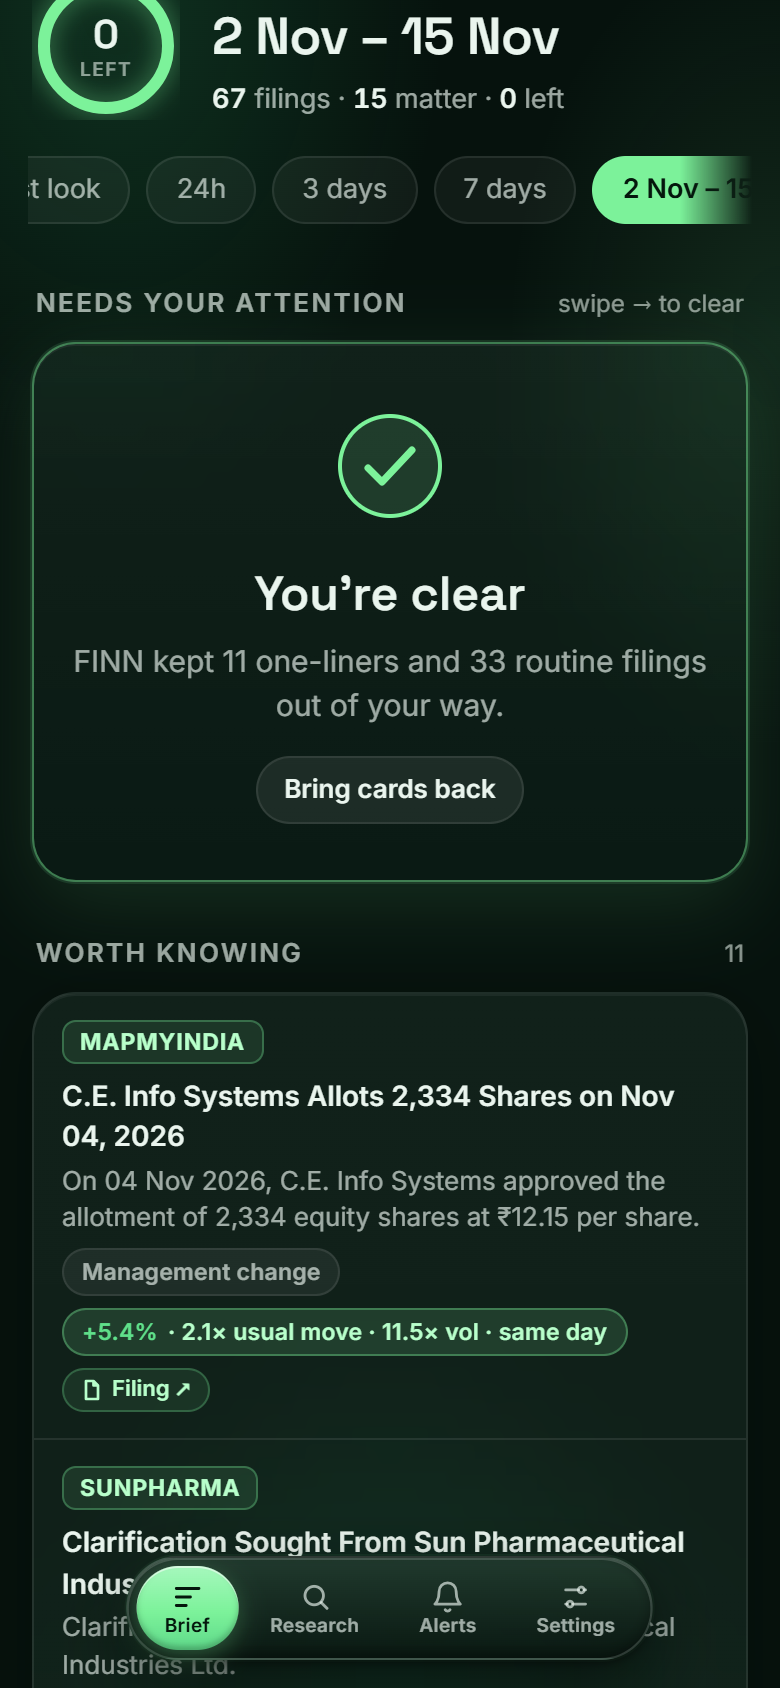
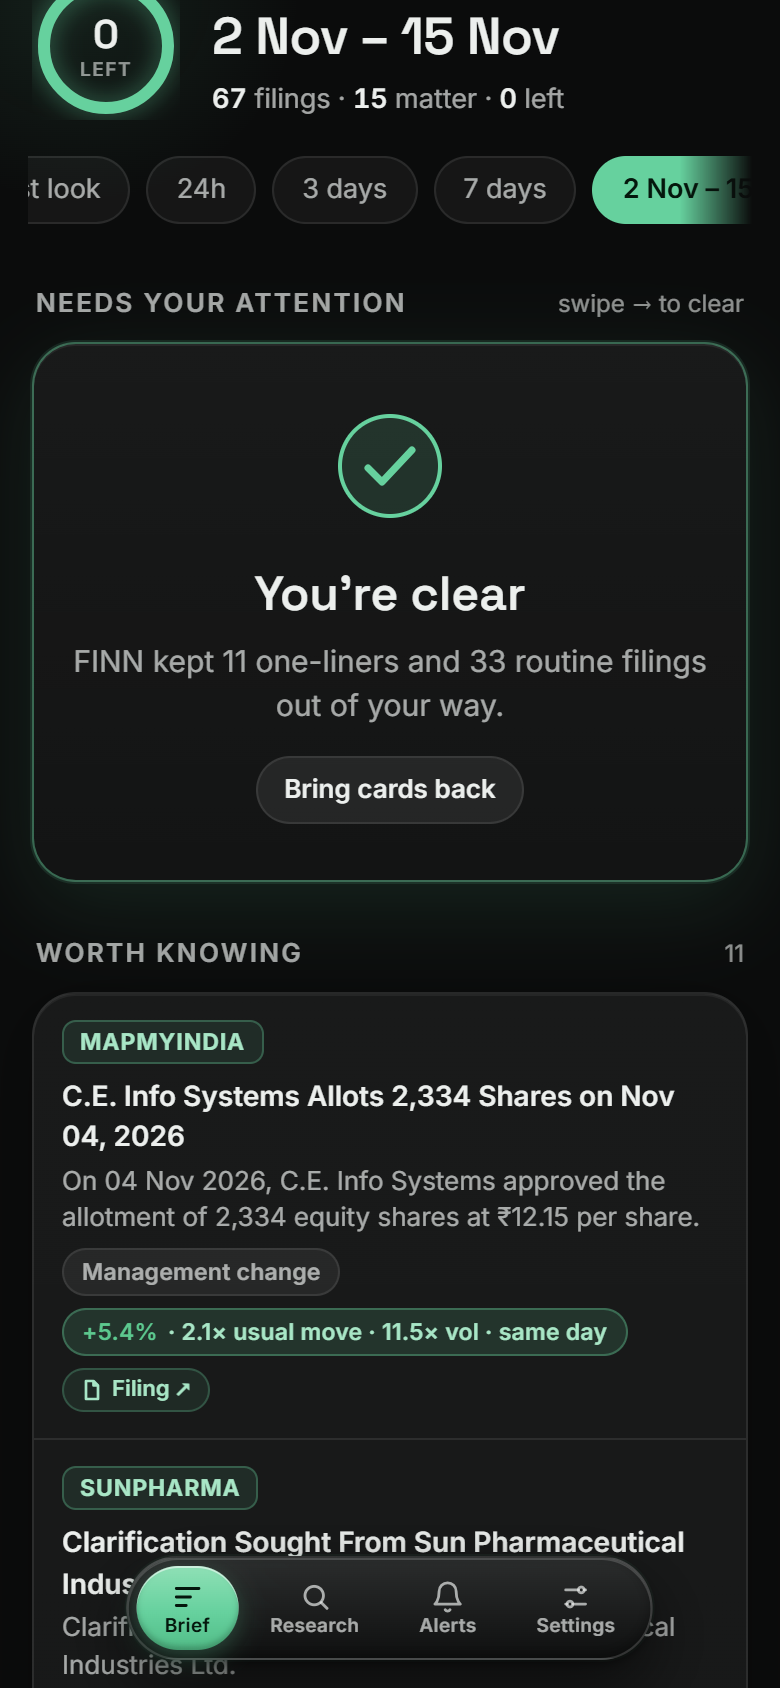
Softer accent and a plain background
Neon mint (#7CF29A) becomes a calmer sage-mint (#66D19E) everywhere, glows
are lighter, red is softer, and the green-tinted background is now plain
near-black with one faint tint behind the logo.

diff --git a/frontend/src/styles.css b/frontend/src/styles.css
@@ -1,19 +1,19 @@
 :root {
-  --bg: #06120d;
-  --bg-2: #0a1a13;
+  --bg: #0b0c0c;
+  --bg-2: #131515;
   --glass: rgba(255, 255, 255, 0.045);
   --glass-strong: rgba(255, 255, 255, 0.075);
   --line: rgba(255, 255, 255, 0.085);
   --line-strong: rgba(255, 255, 255, 0.16);
-  --text: #eaf5ee;
-  --text-2: rgba(234, 245, 238, 0.66);
-  --text-3: rgba(234, 245, 238, 0.58);
-  --mint: #7cf29a;
-  --mint-2: #b8ffcb;
+  --text: #ecefed;
+  --text-2: rgba(236, 239, 237, 0.68);
+  --text-3: rgba(236, 239, 237, 0.58);
+  --mint: #66d19e;
+  --mint-2: #a8e6c6;
   --mint-ink: #04170c;
-  --mint-glow: rgba(124, 242, 154, 0.35);
-  --up: #5fe08a;
-  --down: #ff6b6b;
+  --mint-glow: rgba(102, 209, 158, 0.22);
+  --up: #5cc98f;
+  --down: #ef7b7b;
   --amber: #f5c86b;
   --radius: 22px;
   --radius-sm: 14px;
@@ -44,11 +44,8 @@ a { color: inherit; }
 /* ---------- background glows ---------- */
 .bg-glow {
   position: fixed; inset: 0; z-index: 0; pointer-events: none;
-  background:
-    radial-gradient(60% 40% at 15% 0%, rgba(46, 160, 98, 0.22), transparent 70%),
-    radial-gradient(50% 35% at 100% 20%, rgba(124, 242, 154, 0.10), transparent 70%),
-    radial-gradient(70% 45% at 50% 110%, rgba(30, 110, 72, 0.25), transparent 70%),
-    var(--bg);
+  /* plain background; one faint tint behind the logo only */
+  background: radial-gradient(38% 16% at 10% 0%, rgba(102, 209, 158, 0.10), transparent 75%), var(--bg);
 }
 
 /* ---------- shell ---------- */
@@ -64,7 +61,7 @@ a { color: inherit; }
 
 .topbar { display: flex; align-items: center; justify-content: space-between; gap: 12px; margin-bottom: 14px; }
 .brand { display: flex; align-items: center; gap: 10px; font-family: var(--font); font-weight: 500; letter-spacing: 0.22em; font-size: 15.5px; }
-.brand img { width: 30px; height: 30px; border-radius: 9px; box-shadow: 0 0 18px rgba(124, 242, 154, 0.18); }
+.brand img { width: 30px; height: 30px; border-radius: 9px; box-shadow: 0 0 18px rgba(102, 209, 158, 0.18); }
 .asof { font-size: 11.5px; color: var(--text-3); text-align: right; line-height: 1.3; }
 
 h1, h2, h3 { margin: 0; font-weight: 600; }
@@ -91,7 +88,7 @@ h1, h2, h3 { margin: 0; font-weight: 600; }
 }
 .card { padding: 16px 16px 14px; }
 .card + .card { margin-top: 12px; }
-.hero-glow { border-color: rgba(124, 242, 154, 0.45); box-shadow: 0 0 0 1px rgba(124,242,154,0.12), 0 12px 40px rgba(124, 242, 154, 0.12), inset 0 1px 0 rgba(255,255,255,0.06); }
+.hero-glow { border-color: rgba(102, 209, 158, 0.45); box-shadow: 0 0 0 1px rgba(102, 209, 158,0.12), 0 12px 40px rgba(102, 209, 158, 0.12), inset 0 1px 0 rgba(255,255,255,0.06); }
 
 /* ---------- chips & pills ---------- */
 .chips { display: flex; gap: 8px; overflow-x: auto; scrollbar-width: none; padding: 2px 2px 4px; margin: 0 -2px;
@@ -111,7 +108,7 @@ h1, h2, h3 { margin: 0; font-weight: 600; }
   background: rgba(255,255,255,0.06); border: 1px solid var(--line); color: var(--text-2); white-space: nowrap;
   max-width: 100%; overflow: hidden; text-overflow: ellipsis;
 }
-.tag.mint { background: rgba(124,242,154,0.14); border-color: rgba(124,242,154,0.35); color: var(--mint-2); }
+.tag.mint { background: rgba(102, 209, 158,0.14); border-color: rgba(102, 209, 158,0.35); color: var(--mint-2); }
 .tag.red { background: rgba(255,107,107,0.12); border-color: rgba(255,107,107,0.35); color: #ff9c9c; }
 .tag.amber { background: rgba(245,200,107,0.12); border-color: rgba(245,200,107,0.35); color: #f8d892; }
 .tag.ghost { background: transparent; }
@@ -125,8 +122,8 @@ h1, h2, h3 { margin: 0; font-weight: 600; }
 .linkish { color: var(--mint-2); text-decoration: none; font-weight: 500; }
 .cite {
   display: inline-flex; align-items: center; gap: 4px; height: 22px; padding: 0 8px; border-radius: var(--pill);
-  font-size: 11px; font-weight: 600; color: var(--mint-2); background: rgba(124,242,154,0.09);
-  border: 1px solid rgba(124,242,154,0.25); text-decoration: none; white-space: nowrap;
+  font-size: 11px; font-weight: 600; color: var(--mint-2); background: rgba(102, 209, 158,0.09);
+  border: 1px solid rgba(102, 209, 158,0.25); text-decoration: none; white-space: nowrap;
   max-width: 100%; overflow: hidden; text-overflow: ellipsis; vertical-align: middle;
 }
 .cite svg { flex: none; }
@@ -137,7 +134,7 @@ h1, h2, h3 { margin: 0; font-weight: 600; }
   bottom: calc(var(--safe-bottom) + 14px);
   display: flex; gap: 2px; padding: 4px;
   border-radius: var(--pill);
-  background: linear-gradient(180deg, rgba(34, 58, 46, 0.92), rgba(9, 22, 16, 0.94));
+  background: linear-gradient(180deg, rgba(44, 46, 46, 0.92), rgba(14, 15, 15, 0.94));
   border: 1px solid rgba(255, 255, 255, 0.14);
   backdrop-filter: blur(24px) saturate(150%); -webkit-backdrop-filter: blur(24px) saturate(150%);
   box-shadow:
@@ -145,7 +142,7 @@ h1, h2, h3 { margin: 0; font-weight: 600; }
     inset 0 -2px 6px rgba(0, 0, 0, 0.35),         /* shaded underside */
     0 2px 4px rgba(0, 0, 0, 0.35),                /* contact shadow */
     0 14px 34px rgba(0, 0, 0, 0.55),              /* lift */
-    0 0 0 1px rgba(124, 242, 154, 0.06);
+    0 0 0 1px rgba(102, 209, 158, 0.06);
 }
 .nav button {
   position: relative; display: flex; align-items: center; gap: 7px;
@@ -153,8 +150,8 @@ h1, h2, h3 { margin: 0; font-weight: 600; }
 }
 .nav button[aria-current="page"] { color: var(--mint-ink); }
 .nav .pill-bg { position: absolute; inset: 0; border-radius: var(--pill); z-index: -1;
-  background: linear-gradient(180deg, #a6f8bd 0%, var(--mint) 55%, #5fd98a 100%);
-  box-shadow: inset 0 1px 0 rgba(255, 255, 255, 0.55), inset 0 -2px 3px rgba(4, 23, 12, 0.25), 0 4px 12px rgba(124, 242, 154, 0.28); }
+  background: linear-gradient(180deg, #8fe0b6 0%, var(--mint) 55%, #52bd88 100%);
+  box-shadow: inset 0 1px 0 rgba(255, 255, 255, 0.55), inset 0 -2px 3px rgba(4, 23, 12, 0.25), 0 4px 12px rgba(102, 209, 158, 0.28); }
 .nav svg { width: 17px; height: 17px; }
 .nav button { flex-direction: column; justify-content: center; gap: 1px; height: 42px; padding: 0 14px; font-size: 9.5px; }
 .nav .label { display: block; font-weight: 600; letter-spacing: .02em; line-height: 1.1; }
@@ -170,7 +167,7 @@ h1, h2, h3 { margin: 0; font-weight: 600; }
 
 .swipe-wrap { position: relative; touch-action: pan-y; }
 .swipe-hint { position: absolute; inset: 0; border-radius: var(--radius); display: flex; align-items: center; padding: 0 22px; font-weight: 700; font-size: 13px; letter-spacing: .04em; }
-.swipe-hint.right { justify-content: flex-start; color: var(--mint); background: rgba(124,242,154,0.08); }
+.swipe-hint.right { justify-content: flex-start; color: var(--mint); background: rgba(102, 209, 158,0.08); }
 .swipe-hint.left { justify-content: flex-end; color: var(--amber); background: rgba(245,200,107,0.07); }
 .flip-scene { perspective: 1400px; }
 .flip-inner { position: relative; transform-style: preserve-3d; }
@@ -182,7 +179,7 @@ h1, h2, h3 { margin: 0; font-weight: 600; }
 .ticker-badge {
   flex: none; width: 38px; height: 38px; border-radius: 12px; display: grid; place-items: center;
   font-family: var(--display); font-weight: 700; font-size: 12.5px; letter-spacing: .02em;
-  background: rgba(124,242,154,0.1); border: 1px solid rgba(124,242,154,0.22); color: var(--mint-2);
+  background: rgba(102, 209, 158,0.1); border: 1px solid rgba(102, 209, 158,0.22); color: var(--mint-2);
 }
 .who .name { font-weight: 600; font-size: 15px; white-space: nowrap; overflow: hidden; text-overflow: ellipsis; }
 .who .sub { font-size: 12px; color: var(--text-3); }
@@ -216,7 +213,7 @@ h1, h2, h3 { margin: 0; font-weight: 600; }
 .why-list li:first-child { border-top: 0; }
 .why-list .v { font-variant-numeric: tabular-nums; font-weight: 600; color: var(--text); }
 .score-bar { height: 8px; border-radius: 8px; background: rgba(255,255,255,0.07); overflow: hidden; margin: 10px 0 4px; }
-.score-bar > div { height: 100%; border-radius: 8px; background: linear-gradient(90deg, #2fae67, var(--mint)); }
+.score-bar > div { height: 100%; border-radius: 8px; background: linear-gradient(90deg, #3f9d74, var(--mint)); }
 
 .row-list .row { display: flex; align-items: flex-start; gap: 12px; padding: 13px 14px; }
 .row-list .row + .row { border-top: 1px solid var(--line); }
@@ -237,7 +234,7 @@ h1, h2, h3 { margin: 0; font-weight: 600; }
   width: 100%; height: 50px; border-radius: var(--pill); padding: 0 18px 0 46px;
   background: var(--glass-strong); border: 1px solid var(--line-strong); outline: none; font-size: 15.5px;
 }
-.search input:focus { border-color: rgba(124,242,154,0.55); box-shadow: 0 0 0 4px rgba(124,242,154,0.12); }
+.search input:focus { border-color: rgba(102, 209, 158,0.55); box-shadow: 0 0 0 4px rgba(102, 209, 158,0.12); }
 .search svg { position: absolute; left: 16px; top: 15px; width: 20px; height: 20px; color: var(--text-3); }
 .suggest { margin-top: 8px; overflow: hidden; }
 .suggest button { width: 100%; display: flex; justify-content: space-between; gap: 12px; padding: 12px 16px; text-align: left; font-size: 14px; }
@@ -249,7 +246,7 @@ h1, h2, h3 { margin: 0; font-weight: 600; }
 .stat { padding: 12px 10px; border-radius: 16px; background: rgba(255,255,255,0.04); border: 1px solid var(--line); }
 .stat .n { font-family: var(--display); font-size: 24px; font-weight: 600; line-height: 1.1; font-variant-numeric: tabular-nums; }
 .stat .l { font-size: 11.5px; color: var(--text-3); margin-top: 4px; line-height: 1.25; }
-.stat.key { border-color: rgba(124,242,154,0.45); background: rgba(124,242,154,0.08); }
+.stat.key { border-color: rgba(102, 209, 158,0.45); background: rgba(102, 209, 158,0.08); }
 .stat.key .n { color: var(--mint-2); }
 
 .ledger-row { width: 100%; text-align: left; padding: 13px 14px; display: block; }
@@ -258,26 +255,26 @@ h1, h2, h3 { margin: 0; font-weight: 600; }
 .ledger-row .what { font-weight: 600; font-size: 14px; flex: 1; min-width: 0; white-space: nowrap; overflow: hidden; text-overflow: ellipsis; }
 .ledger-row .line2 { font-size: 12.5px; color: var(--text-2); margin-top: 3px; }
 .verdict { height: 24px; padding: 0 10px; border-radius: var(--pill); font-size: 11.5px; font-weight: 700; display: inline-flex; align-items: center; white-space: nowrap; }
-.v-kept { background: rgba(124,242,154,0.16); color: var(--mint-2); border: 1px solid rgba(124,242,154,0.4); }
+.v-kept { background: rgba(102, 209, 158,0.16); color: var(--mint-2); border: 1px solid rgba(102, 209, 158,0.4); }
 .v-partly { background: rgba(245,200,107,0.13); color: #f8d892; border: 1px solid rgba(245,200,107,0.35); }
 .v-missed { background: rgba(255,107,107,0.13); color: #ff9c9c; border: 1px solid rgba(255,107,107,0.35); }
 .v-dropped { background: rgba(255,107,107,0.08); color: #ffb3b3; border: 1px dashed rgba(255,107,107,0.45); }
 .v-early, .v-nm { background: rgba(255,255,255,0.06); color: var(--text-2); border: 1px solid var(--line); }
-.quote { margin: 10px 0 0; padding: 10px 12px; border-left: 2px solid var(--mint); background: rgba(124,242,154,0.05); border-radius: 0 12px 12px 0; font-size: 13.5px; color: var(--text); }
+.quote { margin: 10px 0 0; padding: 10px 12px; border-left: 2px solid var(--mint); background: rgba(102, 209, 158,0.05); border-radius: 0 12px 12px 0; font-size: 13.5px; color: var(--text); }
 .quote .by { display: flex; gap: 8px; align-items: center; flex-wrap: wrap; font-size: 11.5px; color: var(--text-3); margin-top: 6px; }
 .trail { margin: 10px 0 0; padding: 0; list-style: none; font-size: 12.5px; }
 .trail li { display: flex; gap: 10px; padding: 4px 0; color: var(--text-2); }
 .trail .ev { min-width: 104px; color: var(--text); font-weight: 600; }
 
 .progress { height: 6px; border-radius: 6px; background: rgba(255,255,255,0.07); overflow: hidden; }
-.progress > div { height: 100%; background: linear-gradient(90deg, #2fae67, var(--mint)); border-radius: 6px; }
+.progress > div { height: 100%; background: linear-gradient(90deg, #3f9d74, var(--mint)); border-radius: 6px; }
 .stages { margin: 12px 0 0; padding: 0; list-style: none; font-size: 13px; }
 .stages li { display: flex; align-items: center; gap: 10px; padding: 5px 0; color: var(--text-3); }
 .stages li.done { color: var(--text-2); }
 .stages li.now { color: var(--text); font-weight: 600; }
 .stages .dot { width: 8px; height: 8px; border-radius: 50%; background: rgba(255,255,255,0.15); flex: none; }
 .stages li.done .dot { background: var(--mint); }
-.stages li.now .dot { background: var(--mint); box-shadow: 0 0 0 4px rgba(124,242,154,0.18); }
+.stages li.now .dot { background: var(--mint); box-shadow: 0 0 0 4px rgba(102, 209, 158,0.18); }
 
 .kv { display: grid; grid-template-columns: 1fr auto; gap: 8px 12px; font-size: 13.5px; }
 .kv .k { color: var(--text-2); }
@@ -291,7 +288,7 @@ h1, h2, h3 { margin: 0; font-weight: 600; }
 .sentence { font-family: var(--display); font-size: 17px; line-height: 2.05; font-weight: 500; }
 .sentence .val {
   display: inline-flex; align-items: center; height: 28px; padding: 0 10px; margin: 0 2px;
-  border-radius: var(--pill); background: rgba(124,242,154,0.12); border: 1px solid rgba(124,242,154,0.4);
+  border-radius: var(--pill); background: rgba(102, 209, 158,0.12); border: 1px solid rgba(102, 209, 158,0.4);
   color: var(--mint-2); font-weight: 600; font-size: 14.5px; vertical-align: baseline; font-variant-numeric: tabular-nums;
 }
 .slider { width: 100%; accent-color: var(--mint); height: 28px; }
@@ -304,9 +301,9 @@ h1, h2, h3 { margin: 0; font-weight: 600; }
 /* ---------- settings ---------- */
 .weights .w-row { display: grid; grid-template-columns: 96px 1fr 44px; gap: 10px; align-items: center; padding: 7px 0; font-size: 13.5px; }
 .weights .bar { height: 6px; border-radius: 6px; background: rgba(255,255,255,0.07); overflow: hidden; }
-.weights .bar > div { height: 100%; border-radius: 6px; background: rgba(124,242,154,0.6); }
+.weights .bar > div { height: 100%; border-radius: 6px; background: rgba(102, 209, 158,0.6); }
 .field { width: 100%; height: 44px; border-radius: 12px; border: 1px solid var(--line-strong); background: rgba(255,255,255,0.04); padding: 0 12px; outline: none; }
-.field:focus { border-color: rgba(124,242,154,0.55); }
+.field:focus { border-color: rgba(102, 209, 158,0.55); }
 .steps { counter-reset: s; margin: 0; padding: 0; list-style: none; }
 .steps li { counter-increment: s; position: relative; padding: 10px 0 10px 40px; border-top: 1px solid var(--line); font-size: 13.5px; color: var(--text-2); }
 .steps li:first-child { border-top: 0; }
@@ -330,7 +327,7 @@ html { scroll-behavior: smooth; }
 section, .section-title { scroll-margin-top: 64px; }
 .back-link { font-size: 13px; font-weight: 600; color: var(--mint-2); padding: 6px 0; margin-bottom: 4px; }
 .jumpbar { position: sticky; top: 0; z-index: 15; display: flex; gap: 6px; overflow-x: auto; scrollbar-width: none;
-  margin: 14px -16px 0; padding: 10px 16px; background: rgba(6, 18, 13, 0.86);
+  margin: 14px -16px 0; padding: 10px 16px; background: rgba(11, 12, 12, 0.86);
   backdrop-filter: blur(16px); -webkit-backdrop-filter: blur(16px); border-bottom: 1px solid var(--line); }
 .jumpbar::-webkit-scrollbar { display: none; }
 .jumpbar .chip { height: 30px; font-size: 12.5px; }
@@ -352,7 +349,7 @@ button:active, .chip:active, .why-btn:active, .btn:active { transform: scale(0.9
 .score-pills { flex: none; display: flex; flex-direction: column; align-items: flex-end; gap: 5px; }
 
 .splash { position: fixed; inset: 0; z-index: 100; display: flex; flex-direction: column; align-items: center; justify-content: center; gap: 6px;
-  background: radial-gradient(60% 40% at 50% 40%, rgba(46, 160, 98, 0.16), transparent 70%), #06120D; cursor: pointer; }
+  background: radial-gradient(50% 30% at 50% 42%, rgba(102, 209, 158, 0.08), transparent 70%), #0b0c0c; cursor: pointer; }
 .splash-word { font-family: var(--font); font-weight: 500; font-size: 22px; color: var(--text); margin-top: 4px; padding-left: 0.32em; }
 .splash-line { font-size: 12.5px; color: var(--text-3); letter-spacing: .04em; }
 
@@ -364,7 +361,7 @@ button:active, .chip:active, .why-btn:active, .btn:active { transform: scale(0.9
 
 /* company name as a small highlighted chip */
 .ticker-chip { display: inline-flex; align-items: center; height: 26px; padding: 0 10px; border-radius: 8px;
-  background: rgba(124, 242, 154, 0.10); border: 1px solid rgba(124, 242, 154, 0.30); color: var(--mint-2);
+  background: rgba(102, 209, 158, 0.10); border: 1px solid rgba(102, 209, 158, 0.30); color: var(--mint-2);
   font-weight: 700; font-size: 13px; letter-spacing: .04em; vertical-align: middle; }
 .ticker-chip.sm { height: 22px; padding: 0 8px; font-size: 11.5px; border-radius: 7px; }
 .who .name { overflow: visible; margin-bottom: 5px; }

diff --git a/frontend/src/components/ui.tsx b/frontend/src/components/ui.tsx
@@ -71,7 +71,7 @@ export function Ring({ done, total }: { done: number; total: number }) {
           strokeDasharray={c} transform="rotate(-90 37 37)"
           initial={false} animate={{ strokeDashoffset: c * (1 - frac) }}
           transition={{ type: "spring", stiffness: 120, damping: 20 }}
-          style={{ filter: "drop-shadow(0 0 6px rgba(124,242,154,0.55))" }}
+          style={{ filter: "drop-shadow(0 0 6px rgba(102, 209, 158,0.55))" }}
         />
       </svg>
       <div className="ring-label">
@@ -109,7 +109,7 @@ export function Bars({ data, label }: { data: { x: string; y: number | null; lin
         return (
           <g key={d.x}>
             <rect x={pad + i * bw + bw * 0.18} y={H - h} width={bw * 0.64} height={Math.max(h, 1)} rx="4"
-              fill={i === data.length - 1 ? "var(--mint)" : "rgba(124,242,154,0.28)"} />
+              fill={i === data.length - 1 ? "var(--mint)" : "rgba(102, 209, 158,0.28)"} />
             <text x={pad + i * bw + bw / 2} y={H + 14} textAnchor="middle" fontSize="10" fill="rgba(234,245,238,0.42)">{d.x}</text>
           </g>
         );
@@ -131,7 +131,7 @@ export function BandChart({ low, high, actual, unit }: { low: number | null; hig
   return (
     <svg viewBox="0 0 320 52" width="100%" role="img" aria-label={`target ${lo} to ${hi}${unit}, actual ${actual ?? "not yet"}${unit}`}>
       <line x1="12" x2="308" y1="26" y2="26" stroke="rgba(255,255,255,0.12)" strokeWidth="2" />
-      <rect x={x(lo)} y="18" width={Math.max(x(hi) - x(lo), 4)} height="16" rx="8" fill="rgba(124,242,154,0.22)" stroke="rgba(124,242,154,0.6)" />
+      <rect x={x(lo)} y="18" width={Math.max(x(hi) - x(lo), 4)} height="16" rx="8" fill="rgba(102, 209, 158,0.22)" stroke="rgba(102, 209, 158,0.6)" />
       <text x={(x(lo) + x(hi)) / 2} y="13" textAnchor="middle" fontSize="10" fill="rgba(234,245,238,0.6)">target {lo === hi ? lo : `${lo}–${hi}`}{unit}</text>
       {actual != null && (
         <g>

diff --git a/frontend/src/screens/Brief.tsx b/frontend/src/screens/Brief.tsx
@@ -204,7 +204,7 @@ export default function Brief({ onOpenResearch }: { onOpenResearch: (t: string) 
           {heroLeft.length === 0 && ranked.hero.length > 0 && (
             <motion.div className="glass card empty hero-glow" initial={{ opacity: 0, scale: 0.97 }} animate={{ opacity: 1, scale: 1 }}>
               <svg width="54" height="54" viewBox="0 0 54 54" aria-hidden>
-                <circle cx="27" cy="27" r="25" fill="rgba(124,242,154,0.14)" stroke="var(--mint)" strokeWidth="2" />
+                <circle cx="27" cy="27" r="25" fill="rgba(102, 209, 158,0.14)" stroke="var(--mint)" strokeWidth="2" />
                 <motion.path d="M16 28l7 7 15-16" fill="none" stroke="var(--mint)" strokeWidth="3.5" strokeLinecap="round" strokeLinejoin="round"
                   initial={{ pathLength: 0 }} animate={{ pathLength: 1 }} transition={{ duration: 0.5, delay: 0.1 }} />
               </svg>

diff --git a/frontend/index.html b/frontend/index.html
@@ -3,7 +3,7 @@
   <head>
     <meta charset="UTF-8" />
     <meta name="viewport" content="width=device-width, initial-scale=1, viewport-fit=cover" />
-    <meta name="theme-color" content="#06120D" />
+    <meta name="theme-color" content="#0b0c0c" />
     <meta name="description" content="FINN: what your holdings filed, what matters, and whether management keeps its word." />
     <meta name="apple-mobile-web-app-capable" content="yes" />
     <meta name="apple-mobile-web-app-status-bar-style" content="black-translucent" />
@@ -17,7 +17,7 @@
     <title>FINN</title>
   </head>
   <body>
-    <div id="root"><div style="min-height:100dvh;background:#06120D"></div></div>
+    <div id="root"><div style="min-height:100dvh;background:#0b0c0c"></div></div>
     <script type="module" src="/src/main.tsx"></script>
   </body>
 </html>
